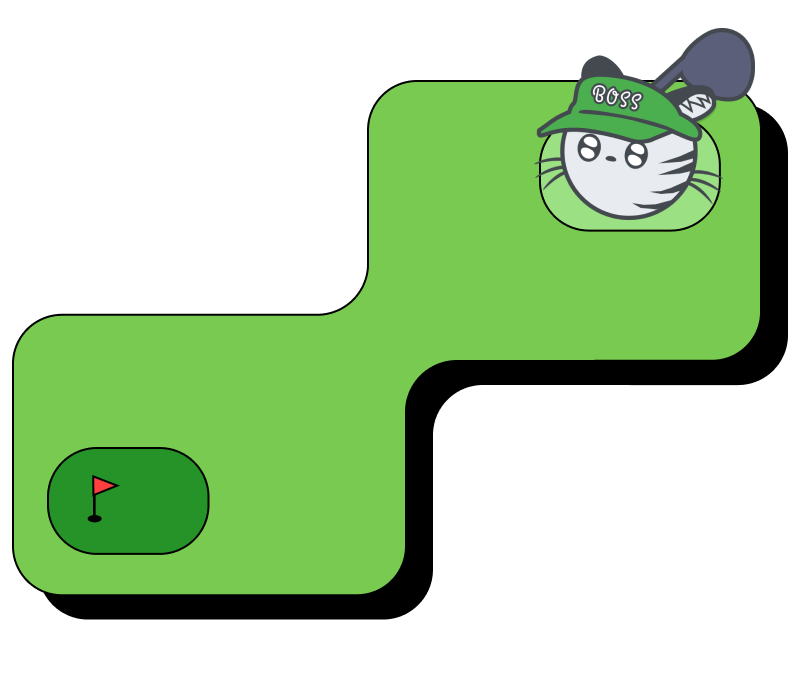
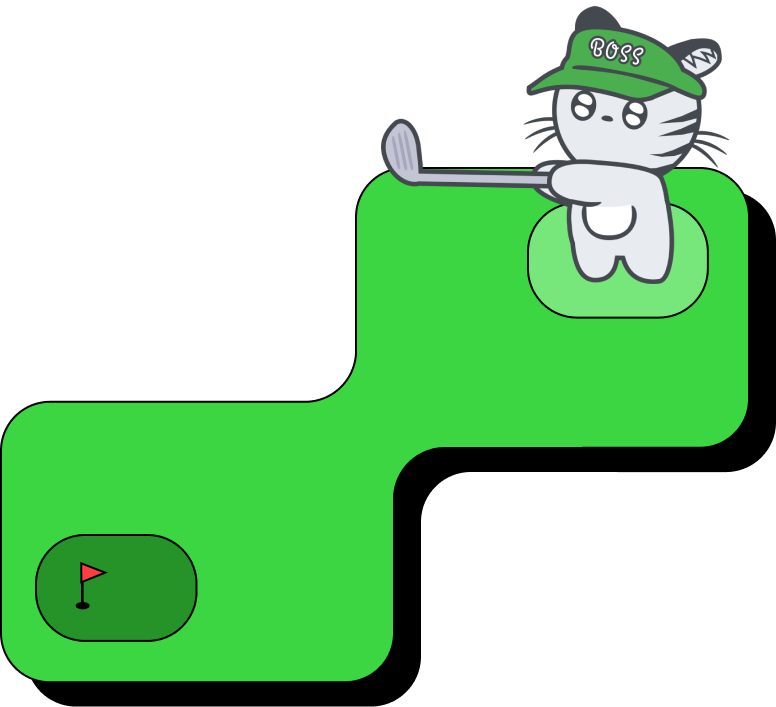
Feat : 수정
Former-commit-id: ff4382fdfddb30dff80dd0c756bc4cee2de05ed5

diff --git a/FE/golffire-react/src/assets/css/user.css b/FE/golffire-react/src/assets/css/user.css
@@ -1,7 +1,7 @@
 /* user container CSS */
 .user-container {
     /* 모양 관련 CSS */
-    top: 200px;
+    top: 150px;
 
     width: 90%;
     height: 650px;
@@ -31,7 +31,8 @@
 
 .user-banner-title {
     width: 100%;
-    padding: 50px 50px 0px;
+    margin-bottom: 0px;
+    padding: 30px 30px 20px;
     color: #000;
     font-size: 40px;
     font-weight: 800;
@@ -49,8 +50,8 @@
 
 .user-banner-img {
     width: 100%;
-    height: 70%;
-    padding: 20px;
+    height: 80%;
+    padding: 0px 20px;
     display: flex;
     justify-content: center;
 }
@@ -94,6 +95,7 @@
     text-align: center;
     font-size: 40px;
     font-weight: 800;
+    margin-bottom: 20px;
 }
 
 .user-func-context {
@@ -106,11 +108,11 @@
 }
 
 .user-func-normal-input {
-    width: 580px;
-    height: 50px;
+    width: 480px;
+    height: 55px;
     max-width: 80%;
 
-    margin: 10px;
+    margin: 15px;
     padding: 10px;
 
     border-radius: 50px;
@@ -131,8 +133,8 @@
 }
 
 .user-func-email-login {
-    width: 580px;
-    height: 50px;
+    width: 480px;
+    height: 60px;
     max-width: 80%;
 
     margin: 10px;
@@ -147,11 +149,12 @@
     display: flex;
     align-self: center;
     justify-content: space-between;
+    align-items: center;
 }
 
 .user-func-kakao-login {
-    width: 580px;
-    height: 50px;
+    width: 480px;
+    height: 60px;
     max-width: 80%;
 
     margin: 10px;
@@ -166,18 +169,19 @@
     display: flex;
     align-self: center;
     justify-content: space-between;
+    align-items: center;
 }
 
 .user-button-text {
     width: 510px;
-
+    margin-right: 8%;
     text-align: center;
     font-size: 20px;
     font-weight: 800;
 }
 
 .user-hr {
-    width: 100%;
+    width: 83%;
     height: 6px;
     margin: 5px;
     border-radius: 5px;
@@ -200,7 +204,7 @@
     height: 100%;
     margin: 20px;
     color: #8D8F98;
-    font-size: 24px;
+    font-size: 16px;
     white-space: nowrap;
 }
 
@@ -342,24 +346,24 @@
     visibility: visible;
 }
 
-.user-banner-profile{
-    width: 40%;
-    height: 100%;
+.user-banner-profile {
+    width: 300px;
+    height: 300px;
     padding-bottom: 40%;
     position: relative;
 }
 
-.user-banner-circle{
+.user-banner-circle {
     width: 100%;
     height: 100%;
-    border-radius: 50%;
+    /* border-radius: 50%; */
     border: 2px solid #000;
-    background-color: FFE000;
-    background-color: red;
+    background-color: #FFE000;
 }
 
 /* react-icon CSS */
 .button-react-icon {
+    margin-left: 10px;
     width: 80px;
     height: 100%;
     font-size: 50px;
@@ -368,10 +372,10 @@
 /* 배경 및 모양 관련 CSS */
 .user-container-bump {
     top: -50px;
-    left: calc(75%);
+    left: calc(89%);
     transform: translateX(-50%);
 
-    width: 20%;
+    width: 14%;
     height: 50px;
 
     border: 2px solid #000;
@@ -384,7 +388,7 @@
 }
 
 .user-container-shadow {
-    top: 220px;
+    top: 170px;
     transform: translateX(20px);
 
     width: 90%;
@@ -401,10 +405,10 @@
 
 .user-container-shadow-bump {
     top: -50px;
-    left: calc(75%);
+    left: calc(89%);
     transform: translateX(-50%);
 
-    width: 20%;
+    width: 14%;
     height: 50px;
 
     border: 2px solid #000;

diff --git a/FE/golffire-react/src/pages/signup/Signup.js b/FE/golffire-react/src/pages/signup/Signup.js
@@ -20,7 +20,7 @@ import SignupEmail1 from "./SignupEmail1";
 import SignupEmail2 from "./SignupEmail2";
 import SignupInfo from "./SignupInfo";
 
-import BackgroundImgage from "../../assets/source/imgs/golf-image-2.png";
+import BackgroundImage from "../../assets/source/imgs/golf-image-2.svg";
 import "./Signup.css";
 
 function Signup() {
@@ -41,7 +41,9 @@ function Signup() {
   const step = state.step;
   const [image, setImage] = useState(state.profile);
 
+  // 사진 출력을 위한 변수
   const ProfileURL = "../../assets/source/profile/";
+  const tmp = "green_suncap_tiger";
 
   // 회원 가입 완료를 위한 함수들
   const navigate = useNavigate();
@@ -125,10 +127,8 @@ function Signup() {
 
             <div className="user-banner-profile">
               <div className="user-banner-circle">
-                {/* <img src={BackgroundImgage} /> */}
-                {/* <image src={BackgroundImgage} /> */}
                 <img className="user-banner-circle-fill"
-                  src={ProfileURL + image + ".png"} alt="사용자 프로필 사진" />
+                  src={require(`../../assets/source/profile/${image}.png`)} />
               </div>
             </div>
 
@@ -146,7 +146,7 @@ function Signup() {
               같이 시작해볼까요?
             </div>
             <div className="user-banner-img">
-              <img className="user-banner-img-style" src={BackgroundImgage} alt="golf-mascot-image" />
+              <img className="user-banner-img-style" src={BackgroundImage} alt="golf-mascot-image" />
             </div>
           </div>
         )}

diff --git a/FE/golffire-react/src/pages/login/Login.js b/FE/golffire-react/src/pages/login/Login.js
@@ -7,7 +7,7 @@ import axios from "axios";
 import { useDispatch } from "react-redux";
 import { setUserId, setUserNickname, setUserLevel, setUserTee } from "../../features/userInfoSlice";
 
-import BackgroundImgage from "../../assets/source/imgs/golf-image-1.png";
+import BackgroundImage from "../../assets/source/imgs/golf-image-1.svg";
 import { IoMailOutline, IoChatbubbleSharp } from "react-icons/io5";
 import "./Login.css";
 
@@ -104,7 +104,7 @@ const Login = () => {
             동료들이<br />기다리고 있어요!
           </div>
           <div className="user-banner-img">
-            <img className="user-banner-img-style" src={BackgroundImgage} alt="golf-mascot-image" />
+            <img className="user-banner-img-style" src={BackgroundImage} alt="golf-mascot-image" />
           </div>
         </div>
         <div className="user-func">
